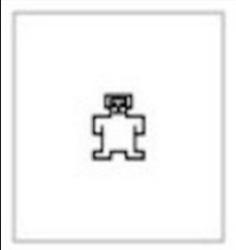
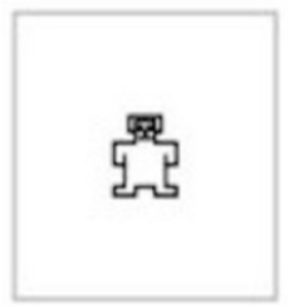
Update sam library styling

Changed region(s): [[0.0, 0.0, 0.9788, 1.0], [0.3856, 0.448, 0.6525, 0.672], [0.4449, 0.364, 0.5932, 0.476]]

diff --git a/public/libraries/sam/assets/stylesheet.css b/public/libraries/sam/assets/stylesheet.css
@@ -1,9 +1,8 @@
-.radioButtons {
-    width: 100%;
-    margin: 0 75px;
+.response {
+    display: flex;
+    justify-content: space-between;
 }
 
-/* Hide number labels from users while keeping them available for analysis */
-.radioButtons p {
-    display: none;
+.response img {
+    max-width: 110px;
 }
